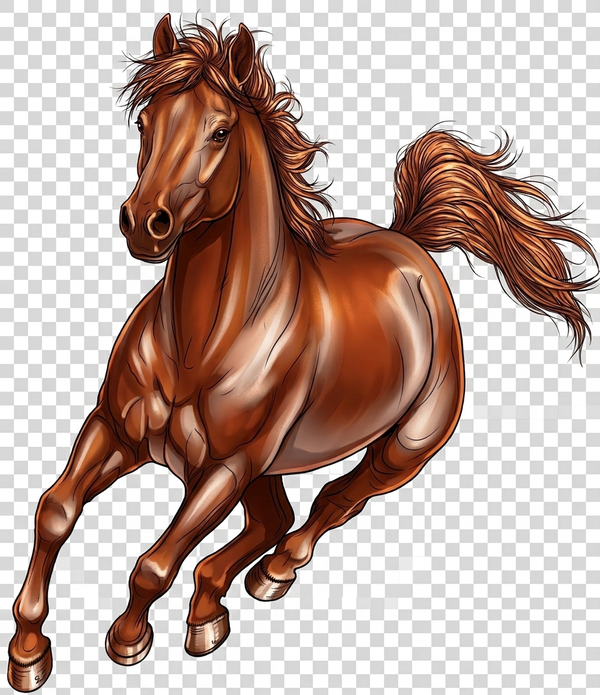
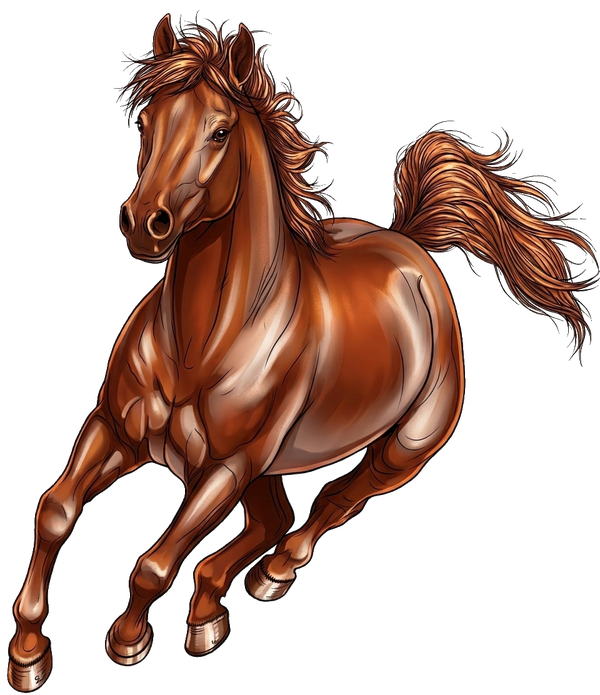
fix: filigrane cheval — PNG RGBA corrigé (fond transparent), retire mix-blend-mode
Claude-Session: https://claude.ai/code/session_01LktwdGuKeBRLgnQgmPWe3o

Changed region(s): [[0.0, 0.0, 1.0, 1.0], [0.48, 0.6647, 0.6, 0.7554]]

diff --git a/chevaux.html b/chevaux.html
@@ -157,7 +157,7 @@
     /* ── Page hero ──────────────────────────────────────── */
     .filigrane-horse {
       position:absolute; pointer-events:none; user-select:none;
-      z-index:0; opacity:.07; mix-blend-mode:multiply;
+      z-index:0; opacity:.07;
     }
     .page-hero {
       padding: 9rem 2rem 4rem;

diff --git a/tarifs.html b/tarifs.html
@@ -156,7 +156,7 @@
     /* ── Page hero ──────────────────────────────────────── */
     .filigrane-horse {
       position:absolute; pointer-events:none; user-select:none;
-      z-index:0; opacity:.07; mix-blend-mode:multiply;
+      z-index:0; opacity:.07;
     }
     .page-hero {
       padding: 9rem 2rem 4rem;

diff --git a/index.html b/index.html
@@ -356,7 +356,7 @@
     }
     .filigrane-horse {
       position:absolute; pointer-events:none; user-select:none;
-      z-index:0; opacity:.07; mix-blend-mode:multiply;
+      z-index:0; opacity:.07;
     }
     .about-inner { position:relative; z-index:1; }
     .about-inner {
